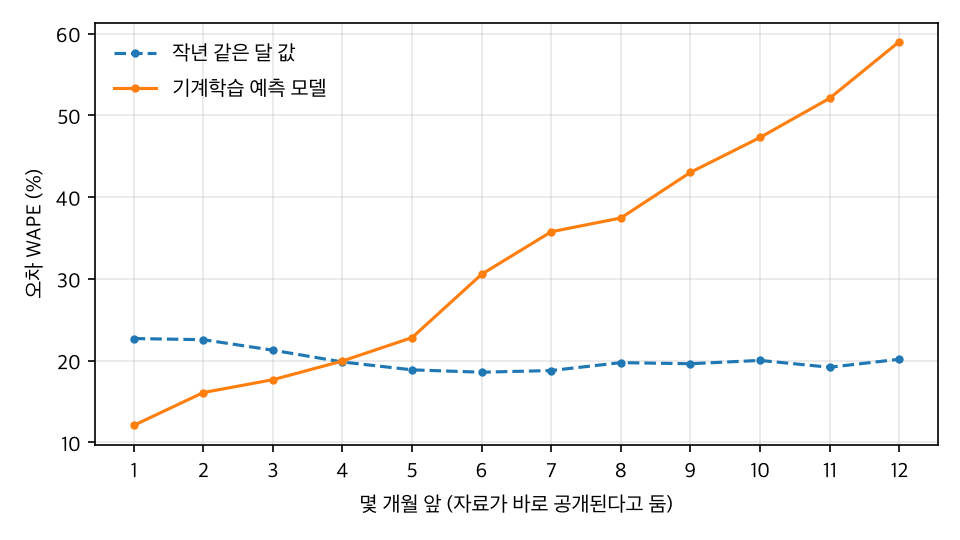
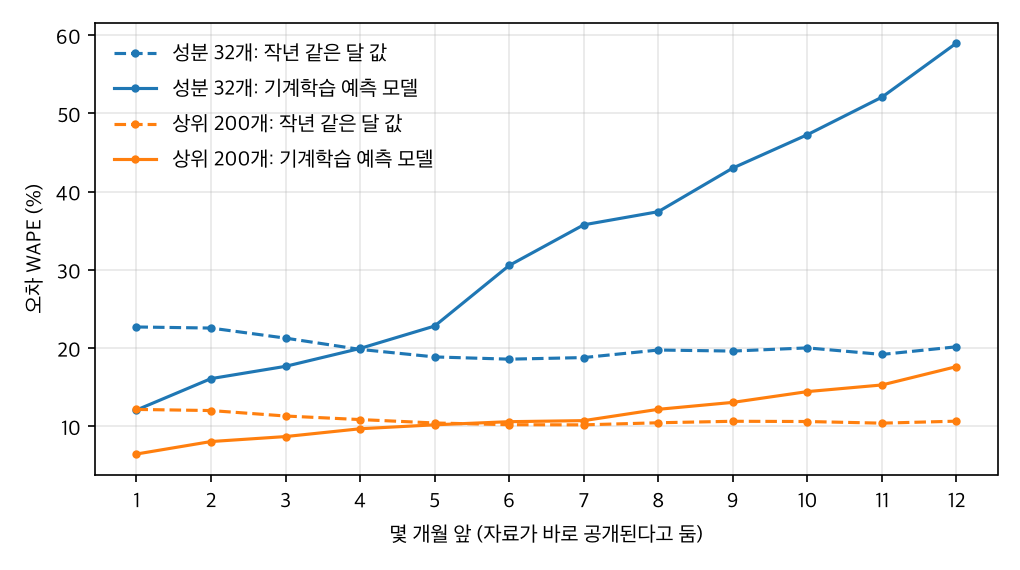
P2: 상위·층화 200 유의성 검정, 외부 결론 (2)·(3) 교체, 내부 보충, 상위 200 예측 기간 곡선, 사후 수정을 공식 작성 기준으로

diff --git a/scripts/p2_min_report.py b/scripts/p2_min_report.py
@@ -52,8 +52,12 @@ def extra_checks(w, src, pct) -> None:
     c32 = pd.read_csv(O / "t3_compare.csv").set_index(["lag", "a", "b"])
     x32 = pd.read_csv(O / "exp_compare.csv").set_index(["lag", "a", "b"])
     w("## 추가 확인 (2026-11-19, 주 결과와 결론 문장은 바꾸지 않음. 판단 기준은 실행 전에 DECISIONS에 기록)\n")
-    w("### A. 사용통계 사후 수정 — **사용자 가설, 판본 하나뿐이라 간접 시험만 함**\n")
-    w("가설: \"공개된 지 얼마 안 된 달의 사용통계는 덜 집계되어 있고, 나중에 위로 수정된다.\" 같은 달을 다른 시점에 받은 판본이 없어 수정 크기는 직접 잴 수 없다.\n")
+    w("### A. 사용통계 사후 수정 — **공식 작성 기준에 따른 자료 성질** (판본이 하나뿐이라 간접 시험만 함)\n")
+    w("근거: 공공데이터포털 국민건강보험공단_의약품 사용통계 설명 \"건강보험 청구자료 기반, 2018년 1월 ~ 2025년 2월 … (25.5월 심사완료분까지 반영, 25.6.27.)\" "
+      "(https://www.data.go.kr/biz/dcat/metadata/15128709.do), 같은 기관 진료현황 자료 \"진료일 기준, 지급분까지 반영, 청구권 소멸시효 완성(3년) 이전 자료는 변동될 수 있음\" "
+      "(https://www.data.go.kr/data/15160449/fileData.do). 판본마다 특정 심사 완료 시점까지의 청구만 담으므로 최근 달은 덜 집계되고 이후 판본에서 늘 수 있다. "
+      "공개 시차는 약 4개월(2025-02 자료가 2025-06-27 공개)로 가정 5개월과 비슷하다. 같은 달을 다른 시점에 받은 판본이 없어 수정 폭은 직접 잴 수 없다. "
+      "(이전 표기 '사용자 가설'을 2026-11-19 사용자 결정으로 바꿈)\n")
     w("**a. 민감도**: 평가 정답에서 분석 끝 기준 마지막 12개월(2025-01 ~ 12)을 뺀 오차.\n")
     w("| lag | 모델 | 전체 MASE | 전체 WAPE | 마지막 12개월 뺀 MASE | 마지막 12개월 뺀 WAPE | 칸 (전체 → 뺀 뒤) |\n|---|---|---|---|---|---|---|")
     for (lag, m), g in sen.groupby(["lag", "model"]):
@@ -66,7 +70,8 @@ def extra_checks(w, src, pct) -> None:
     for x in rv.itertuples():
         w(f"| {x.unit} | {x.units} | {100 * x.median_drop:+.1f}% | {pct(x.share_negative)} | **{x.verdict}** |")
     w(f"\n![작년 같은 달 대비 비율](figures/p2_revision_ratio.png)\n\n{src('extra_revision_verdict.csv', 'extra_revision_by_k.csv')}. "
-      "**이 비교는 실제 수요 감소와 덜 집계를 구분하지 못한다.** 하락 방향은 단위의 다수에서 보였지만 판단 기준(−5%)에는 미치지 않았다.\n")
+      "**이 방법으로는 수정 폭이 −5%를 넘는다는 증거를 찾지 못했다**(표의 판정 칸은 실행 전 기준의 이름). 하락 방향은 단위의 다수에서 보였다. 이 비교는 실제 수요 감소와 덜 집계를 구분하지 못한다. "
+      "남은 측정 과제: 수정 폭과 안정 기간. 사용 파일의 '심사완료분 반영 시점'을 알면 각 달의 경과 개월을 그것으로 다시 계산한다.\n")
     w("**c. 직접 비교 준비**: `scripts/p2_usage_vintage_diff.py`(합성 자료 시험 `tests/test_p2_vintage_diff.py`). 같은 달의 두 판본을 성분 × 월·약효분류군 × 월로 비교해 "
       "공개 후 경과 개월별 수량·금액 차이(절대·%)를 낸다. 사용자가 MEDICINE_202509 ~ 202512를 다시 받아 넣으면 2026-10-28 판본과 비교한다(지금은 실행하지 않음).\n")
     w("### B. 몇 개월 앞까지 믿을 만한가 (공개 시차 0, origin 2023-01 ~ 2024-12 고정, 성분 32)\n")
@@ -82,6 +87,23 @@ def extra_checks(w, src, pct) -> None:
       f"M2가 M0를 이기는 마지막 개월 수 = **{int(hv.last_h_m2_beats_m0)}**(1개월부터 끊김 없이 {int(hv.last_contiguous_h_m2_beats_m0)}개월). "
       + ("청구금액으로 가중해도 M2가 M0를 이기는 개월은 같다.\n" if ((p_[("wape", "M2")] < p_[("wape", "M0")]) == (p_[("wape_amt", "M2")] < p_[("wape_amt", "M0")])).all()
          else "**청구금액으로 가중하면 M2가 M0를 이기는 개월이 달라진다** (표 참고).\n"))
+    hz2 = pd.read_csv(O / "extra_horizon_top200.csv").pivot_table(index="h", columns="model", values=["wape", "wape_amt"])
+    hv2 = pd.read_csv(O / "extra_horizon_top200_verdict.csv").iloc[0]
+    w("**상위 200개 성분으로 반복** (같은 설정·사전 기준, 판정은 비가중):\n")
+    w("| 몇 개월 앞 | 32개 M0 / M2 WAPE | 상위 200 M0 / M2 WAPE | 상위 200 M2가 나은가 | 상위 200 M0 / M2 금액 가중 WAPE |\n|---|---|---|---|---|")
+    for h in hz2.index:
+        w(f"| {h} | {pct(p_.loc[h, ('wape', 'M0')])} / {pct(p_.loc[h, ('wape', 'M2')])} | {pct(hz2.loc[h, ('wape', 'M0')])} / {pct(hz2.loc[h, ('wape', 'M2')])} | "
+          f"{'예' if hz2.loc[h, ('wape', 'M2')] < hz2.loc[h, ('wape', 'M0')] else '아니오'} | {pct(hz2.loc[h, ('wape_amt', 'M0')])} / {pct(hz2.loc[h, ('wape_amt', 'M2')])} |")
+    w(f"\n{src('extra_horizon_top200.csv', 'extra_horizon_top200_verdict.csv')}. 상위 200개: 1개월 앞 대비 10% 넘게 커지는 첫 개월 = **{int(hv2.first_h_10pct)}** → 가설 **{'채택' if hv2.first_h_10pct >= 4 else '기각'}**. "
+      f"M2가 M0를 이기는 마지막 개월 수 = **{int(hv2.last_h_m2_beats_m0)}**(1개월부터 끊김 없이 {int(hv2.last_contiguous_h_m2_beats_m0)}개월). 그림은 위와 같은 파일에 두 대상을 함께 그렸다.\n")
+    sgf2 = pd.read_csv(O / "extra_signif.csv")
+    w("### 유의성 검정: 상위 200·층화 200 (기존 예측값, 판단 기준은 DECISIONS 2026-11-19)\n")
+    w("| 대상 | lag | a − b | WAPE a / b | 금액 가중 WAPE a / b | a가 나은 성분 | 부호·Wilcoxon (Holm) | 판정(비가중) | DM 비가중 (Holm) | DM 금액 가중 (Holm) |\n|---|---|---|---|---|---|---|---|---|---|")
+    for x in sgf2.itertuples():
+        w(f"| {x.set} | {x.lag} | {x.a} − {x.b} | {pct(x.wape_a)} / {pct(x.wape_b)} | {pct(x.wape_amt_a)} / {pct(x.wape_amt_b)} | {x.a_better_series}/{x.n_series} | "
+          f"{x.sign_p_holm:.4f} · {x.wilcoxon_p_holm:.4f} | {x.verdict} | {x.dm_p_holm:.4f} ({x.dm_verdict}) | {x.dmw_p_holm:.4f} ({x.dmw_verdict}) |")
+    w(f"\n{src('extra_signif.csv')}. 비가중 판정 = 성분별 WAPE 차이의 부호·Wilcoxon이 둘 다 Holm 뒤 p < 0.05. DM = origin별 전체 WAPE 차이 시계열(35개)의 Newey–West t 검정. "
+      "**시차 5의 M2 − M0는 성분별 검정으로는 유의하지만 비가중 DM(origin별 전체 WAPE)으로는 유의하지 않다**: 성분 다수에서 M2가 낫지만 월별 총오차의 차이는 달마다 크게 흔들린다(처방량이 큰 성분·달의 영향일 수 있으나 확인하지 않았다). 금액 가중 DM은 유의하다.\n")
     w("### C. 상위 200개 성분 (약효분류 묶음 조건 없이, 96개월 관측 + 2022 원외 청구수량 상위 200)\n")
     w("| 단계 | 성분4 | 탈락 |\n|---|---|---|")
     for x in t2s.itertuples():
@@ -191,6 +213,10 @@ def main() -> None:
     assert better(dgc[dgc["a"].str.startswith(("M3o", "M3_off"))]).empty, "오라클·시점 이동 중 개선된 것이 있다 — 결론 문장과 다름"
     assert better(dga[dga["a"].str.startswith("M3o")]).empty, "금액 오라클이 개선됐다 — 결론 문장과 다름"
     w(f"**결론**: {CONCLUSION}\n")
+    sgf = pd.read_csv(O / "extra_signif.csv").set_index(["set", "lag", "a", "b"])
+    both = all(sgf.loc[(st_, MAIN, "M2", "M0"), "verdict"] == "M2가 나음" for st_ in ("상위 200", "층화 200"))
+    w("(보충) 상위 200개·층화 200개에서는 시차 5에서도 M2가 M0보다 " + ("오차가 작았다" if both else "유의한 차이가 없었다")
+      + "(추가 확인 D). 선행 신호 특징이 개선하지 못한 결과는 세 대상 모두에서 같았다.\n")
     w("**주 결과의 숫자 (공개 시차 5개월, 예측 대상 = 발간월 M의 다음 달 M+1)**: 전역 모델 M2의 MASE "
       f"{m20.mase_a:.3f}는 12개월 전 값 M0 {m20.mase_b:.3f}보다 나빴다 (M2가 나은 성분 {int(m20.a_better_series)}/{int(m20.n_series)}). "
       f"P1 신호 특징을 넣은 M3 {m32.mase_a:.3f}는 M2보다 나빴다 (M3가 나은 성분 {int(m32.a_better_series)}/{int(m32.n_series)}, Holm 보정 뒤 판정: {m32.verdict_holm}). "
@@ -453,7 +479,7 @@ def main() -> None:
         f"| W1 | 대상 선정의 생존 편향: 96개월 내내 관측된 성분만 | 주력 묶음 106개 중 {len(tgt)}개, 2022 원외 청구금액의 {pct(cov['amt_share'])} | 한계로 적고 고치지 않는다 (사용자 결정 2026-11-18) |",
         f"| W2 | 주 결과(lag 5)에서 전역 모델이 12개월 전 값에 진다 | MASE M2 {m20.mase_a:.3f} 대 M0 {m20.mase_b:.3f} | 숨기지 않고 결론 첫 줄에 쓴다 |",
         f"| W3 | 신호 특징의 결측이 시기 표시로 작동 (상수 열 실험 E1′로 확인) | lag 5 M3 − M2 {relp(MAIN, 'M3', 'M2'):+.1f}% 중 {relp(MAIN, 'E1_null', 'M2'):+.1f}%가 시기 표시 | 결측을 채우지 않는다(CLAUDE.md). 신호 내용의 몫은 M3 − E1로 따로 보고 |",
-        "| W4 | 수정본 사용통계로 학습·평가 | 측정 불가 (판이 하나) | L17, BACKLOG X11 |",
+        "| W4 | 수정본 사용통계로 학습·평가. 판본마다 특정 심사 완료 시점까지의 청구만 담는 공식 작성 기준이라 최근 달은 덜 집계될 수 있다 | 수정 폭은 측정 불가(판이 하나). 간접 시험으로는 −5%를 넘는 증거 없음 | L17, 두 판본 비교 스크립트 준비 |",
         "| W5 | 가상 재고는 전국·이월 없음·비용 비율 1·3·9·안전계수 0.1(가정값) | 약국 재고가 아니다. 분위 포함률이 τ에 맞지 않아 정책 비교가 섞인다 | 가정 유지 (사용자 결정). 포함률 보정은 향후 과제 |",
         "| W6 | 성분 간 독립을 가정한 검정 | 같은 origin을 공유해 p값이 낙관적일 수 있다 | 다루지 않음 (origin 블록 부트스트랩 미실행). Holm은 다중 비교만 다룬다 |",
         "| W7 | 주력 묶음을 평가 기간(2022~2025) 계절성으로, 규모 조건을 2022 전체로 골랐다 | 계절 모델(M0)에 유리하게 쏠릴 수 있다. lag 5 첫 origin은 2022-08까지만 본다 | 한계로 적고 고치지 않는다 |",

diff --git a/src/pbd/forecast/extra_signif.py b/src/pbd/forecast/extra_signif.py
@@ -1,0 +1,83 @@
+"""P2 유의성 검정 (2026-11-19 사용자 지시, 기존 예측값만 사용 — 새 학습 없음). 판단 기준은 DECISIONS 2026-11-19에 먼저 기록.
+
+대상: 상위 200(extra_top200_pred.csv), 층화 200(extra_strat200_pred.csv). 시차 5·0, 다음 달. 비교 M2 − M0, M3 − M2.
+① 비가중: 성분별 WAPE 차이 d_i = WAPE_i(a) − WAPE_i(b)에 부호 검정·Wilcoxon (기존 방식, 음수 = a가 나음)
+② DM(비가중): origin별 전체 WAPE 차이(35개)의 평균 = 0, Newey–West 분산(지연 = 시차, 겹치는 예측 대비), t 분포(자유도 T − 1)
+③ DM(금액 가중): origin별 금액 가중 WAPE 차이로 같은 검정
+Holm 보정: 검정 종류마다 이 표의 비교 8개를 한 묶음으로. 판정(비가중) = 부호·Wilcoxon 둘 다 Holm 뒤 p < 0.05.
+사용: python -m pbd.forecast.extra_signif  (출력 outputs/p2/extra_signif.csv)
+"""
+from __future__ import annotations
+
+import numpy as np
+import pandas as pd
+from scipy import stats
+
+from pbd.common import ROOT
+from pbd.forecast import extra_weight as W
+from pbd.forecast.t3_models import holm
+
+OUT = ROOT / "outputs/p2"
+SETS = (("상위 200", "extra_top200_pred.csv"), ("층화 200", "extra_strat200_pred.csv"))
+PAIRS = (("M2", "M0"), ("M3", "M2"))
+LAGS = (5, 0)
+ALPHA = 0.05
+
+
+def nw_t(d: np.ndarray, lags: int) -> tuple[float, float]:
+    """평균 = 0 검정 (Newey–West 분산, Bartlett 가중). (t, 양측 p)"""
+    d = d[np.isfinite(d)]
+    T = len(d)
+    u = d - d.mean()
+    v = u @ u / T
+    for k in range(1, min(lags, T - 1) + 1):
+        v += 2 * (1 - k / (lags + 1)) * (u[k:] @ u[:-k]) / T
+    t = d.mean() / np.sqrt(v / T)
+    return float(t), float(2 * stats.t.sf(abs(t), df=T - 1))
+
+
+def one(sc: pd.DataFrame, a: str, b: str, lag: int, w: pd.Series) -> dict:
+    x = sc[(sc["lag"] == lag) & sc["model"].isin([a, b])].dropna(subset=["yhat"])
+    key = ["c4", "origin"]
+    xa, xb = x[x.model == a].set_index(key), x[x.model == b].set_index(key)
+    common = xa.index.intersection(xb.index)
+    xa, xb = xa.loc[common].reset_index(), xb.loc[common].reset_index()
+    per = lambda d: d.groupby("c4")["ae"].sum() / d.groupby("c4")["y"].sum()   # noqa: E731
+    di = (per(xa) - per(xb)).dropna()
+    k, n = int((di < 0).sum()), int((di != 0).sum())
+    sign_p = stats.binomtest(k, n, 0.5).pvalue
+    wil_p = stats.wilcoxon(di).pvalue
+    tot = lambda d: d.groupby("origin")["ae"].sum() / d.groupby("origin")["y"].sum()   # noqa: E731
+    dm_t, dm_p = nw_t((tot(xa) - tot(xb)).to_numpy(), lag)
+    def wt(d):
+        g = d.assign(r=d["ae"] / d["y"], w=d["c4"].map(w))
+        return g.groupby("origin").apply(lambda h: (h["r"] * h["w"]).sum() / h["w"].sum(), include_groups=False)
+    dmw_t, dmw_p = nw_t((wt(xa) - wt(xb)).to_numpy(), lag)
+    wa, wb = xa["ae"].sum() / xa["y"].sum(), xb["ae"].sum() / xb["y"].sum()
+    return dict(lag=lag, a=a, b=b, n_series=len(di), wape_a=wa, wape_b=wb, wape_amt_a=W.weighted_wape(xa, w), wape_amt_b=W.weighted_wape(xb, w),
+                median_diff=float(di.median()), a_better_series=k, sign_p=sign_p, wilcoxon_p=wil_p, dm_t=dm_t, dm_p=dm_p, dmw_t=dmw_t, dmw_p=dmw_p)
+
+
+def main() -> None:
+    rows = []
+    for name, f in SETS:
+        sc = pd.read_csv(OUT / f, dtype={"c4": str})
+        w = W.amt2022(sorted(sc["c4"].unique()))
+        for lag in LAGS:
+            for a, b in PAIRS:
+                rows.append(dict(set=name, **one(sc, a, b, lag, w)))
+    t = pd.DataFrame(rows)
+    for c in ("sign_p", "wilcoxon_p", "dm_p", "dmw_p"):
+        t[c + "_holm"] = holm(t[c])
+    sig = (t["sign_p_holm"] < ALPHA) & (t["wilcoxon_p_holm"] < ALPHA)
+    t["verdict"] = np.where(~sig, "유의한 차이 없음", np.where(t["median_diff"] < 0, t["a"] + "가 나음", t["b"] + "가 나음"))
+    t["dm_verdict"] = np.where(t["dm_p_holm"] >= ALPHA, "유의한 차이 없음", np.where(t["dm_t"] < 0, t["a"] + "가 나음", t["b"] + "가 나음"))
+    t["dmw_verdict"] = np.where(t["dmw_p_holm"] >= ALPHA, "유의한 차이 없음", np.where(t["dmw_t"] < 0, t["a"] + "가 나음", t["b"] + "가 나음"))
+    t.to_csv(OUT / "extra_signif.csv", index=False)
+    with pd.option_context("display.width", 260):
+        print(t[["set", "lag", "a", "b", "wape_a", "wape_b", "wape_amt_a", "wape_amt_b", "a_better_series", "sign_p_holm", "wilcoxon_p_holm",
+                 "verdict", "dm_p_holm", "dm_verdict", "dmw_p_holm", "dmw_verdict"]].round(4).to_string(index=False))
+
+
+if __name__ == "__main__":
+    main()

diff --git a/scripts/p2_docs.py b/scripts/p2_docs.py
@@ -171,10 +171,12 @@ def plan_table(N) -> list[str]:
 def readme_block(N) -> str:
     import ext_core as X
     P2 = X.p2_numbers()
-    e = P2["e"]
+    e, t2 = P2["e"], P2["t2"]
+    sg = pd.read_csv(O / "extra_signif.csv").set_index(["set", "lag", "a", "b"])
+    verb = "작았고" if sg.loc[("상위 200", MAIN, "M2", "M0"), "verdict"] == "M2가 나음" else "유의한 차이가 없었고"
     return "\n".join([RD_START,
-        f"**P2 처방 수요 예측**: 성분 32개 × 전국 처방량의 다음 달 예측(약국 단위 아님). 자료가 바로 나온다고 가정하면 기계학습 모델의 오차가 작년 같은 달 값보다 작지만"
-        f"({pct(e.loc[('M2', 0), 'wape'])} 대 {pct(e.loc[('M0', 0), 'wape'])}), 실제 공개 시차 5개월에서는 더 나빴다({pct(e.loc[('M2', 5), 'wape'])}). "
+        f"**P2 처방 수요 예측**: 성분별 전국 처방량의 다음 달 예측(약국 단위 아님). 처방량 상위 200개 성분에서는 실제 공개 시차 5개월에서도 기계학습 모델의 오차가 작년 같은 달 값보다 {verb}"
+        f"({pct(t2.loc[('M2', MAIN), 'wape'])} 대 {pct(t2.loc[('M0', MAIN), 'wape'])}), 호흡기 계열 32개 성분에서는 작년 같은 달 값이 더 나았다({pct(e.loc[('M0', MAIN), 'wape'])} 대 {pct(e.loc[('M2', MAIN), 'wape'])}). "
         "급여목록 처분 예고를 더해도, 실제로 일어난 변화를 미리 알려 줘도 개선되지 않았다. 2쪽 요약: [reports/P2_SUMMARY.md](reports/P2_SUMMARY.md). 실행: `make p2-min`.",
         RD_END])
 

diff --git a/scripts/p1_docs.py b/scripts/p1_docs.py
@@ -296,6 +296,7 @@ def check(path: Path, text: str, N) -> list[str]:
             continue
         if not (path.parent / tgt).resolve().exists():
             errs.append(f"{path.name}: 링크 대상 없음 {tgt}")
+    text = text.replace("세 대상(32개, 상위 200개, 층화 200개) 모두에서", "")   # 사용자가 정한 문구(2026-11-19)
     for w in ("정확히", "완벽", "모두", "인과", "영향을 미", "인하된다", "등재된다", "중지된다", "확실히"):
         if w in text:
             errs.append(f"{path.name}: 금지 표현 '{w}'")

diff --git a/reports/P2_SUMMARY.md b/reports/P2_SUMMARY.md
@@ -4,14 +4,19 @@
 
 ## 핵심 결론
 
-2. **예측 정확도를 좌우하는 것은 자료의 신선도다.** 오차는 WAPE(예측이 빗나간 양의 합 ÷ 실제 처방량의 합)로 잰다. 호흡기·알레르기 계열 32개 성분에서 지난달 자료를 바로 쓸 수 있다면 기계학습 예측 모델의 오차가 작년 같은 달 값보다 약 40% 작지만(13.6% 대 23.9%), 실제 공개 시차(5개월)에서는 오히려 더 나쁘다(29.1% 대 23.9%). 다만 처방량 상위 200개 성분(11.0% 대 12.0%)와 분류·규모·업체 수로 고르게 뽑은 200개 성분(10.4% 대 12.1%)에서는 5개월 시차에서도 작년 같은 달 값보다 오차가 작았다. 그래서 '5개월 시차에서는 더 나쁘다'는 32개 성분에 한한 결과다. 어느 대상에서든 자료가 늦을수록 오차가 커졌다(200개 성분: 시차 0 7.2% → 시차 5 11.0%). 자료가 바로 공개된다고 둬도 1개월 앞에서 2개월 앞으로 가면 오차가 33% 커지고, 작년 같은 달 값을 이기는 것은 3개월 앞까지다.
-3. **급여목록의 가격·등재 정보는 성분 전체 처방량 예측을 개선하지 못했다.** 실제로 일어난 변화를 미리 알려 준 시험에서도 개선이 없었다. 이것은 목록 정보가 쓸모없다는 뜻이 아니다. 그 정보가 움직이는 곳은 성분 안의 제품별 처방 비중과 약국 재고의 가격 위험일 가능성이 크다고 본다(검증하지 않은 추정). 이 프로젝트는 그쪽을 측정하지 않았다.
+2. **예측 정확도는 자료의 신선도가 크게 좌우한다.** 처방량 상위 200개 성분(공개 원외처방 청구금액의 76%)의 다음 달 처방량은, 실제 공개 시차(5개월)에서도 기계학습 모델의 오차가 작년 같은 달 값보다 작았다(WAPE 11.0% vs 12.0%, 금액 가중 6.7% vs 8.5%). 지난달 자료를 바로 쓸 수 있다면 오차는 7.2%로 더 줄었다. 계절 변동이 큰 호흡기 계열 32개 성분에서는 5개월 시차에서 작년 같은 달 값이 더 나았다. (분류·규모·업체 수로 고르게 뽑은 층화 200개 성분: 유의 — WAPE 10.4% vs 12.1%)
+3. **급여목록의 가격·등재 정보는 세 대상(32개, 상위 200개, 층화 200개) 모두에서 성분 전체 처방량 예측을 개선하지 못했다.** 실제로 일어난 변화를 미리 알려 준 시험에서도 개선이 없었다. 이것은 목록 정보가 쓸모없다는 뜻이 아니다. 그 정보가 움직이는 곳은 성분 안의 제품별 처방 비중과 약국 재고의 가격 위험일 가능성이 크다고 본다(검증하지 않은 추정). 이 프로젝트는 그쪽을 측정하지 않았다.
 
-**의미**: 수요 예측의 경쟁력은 바로 쌓이는 자료(약국 주문·판매)에서 나온다 — 이 프로젝트에서 **검증하지 않은 가정**이다. 급여목록 정보는 약국 알림에 맞다고 본다(시험하지 않은 제안): 약가 인하 예고는 신뢰도가 높고, 급여중지 예고는 법원에서 막힐 수 있다는 점을 함께 표시해야 한다.
+**의미**:
+- 넓은 성분 범위의 월 수요는 공개 통계로도 예측할 수 있다(상위 200개, 금액 가중 오차 약 7%).
+- 자료가 신선할수록 오차가 줄어든다(11.0% → 7.2%).
+- 계절 변동이 큰 약(호흡기 계열)은 예외다. 늦은 자료로는 유행 시작을 볼 수 없다.
+- 약국 주문·판매처럼 바로 쌓이는 자료의 가치는 이 프로젝트에서 **검증하지 않은 가정**이다.
+- 목록 정보는 수요 예측보다 약국 알림에 맞다(시험하지 않은 제안): 약가 인하 예고는 신뢰도가 높고, 급여중지 예고는 법원에서 막힐 수 있다는 점을 함께 표시해야 한다.
 
 급여목록 처분 예고 쪽 결론(약가 인하 예고 실행 비율, 급여중지 예고의 법원 집행정지)은 [P1 요약](SUMMARY.md)에 있다.
 
-**용어** — **급여목록**: 건강보험이 적용되는 약과 상한가격의 공식 목록(매달 새 파일). **비고**: 목록의 메모 칸. 앞으로의 처분(예: "'25.7.1. 인하")이 미리 적힌다. **변화 기록표**: 월별 목록 파일을 비교해 언제 무엇이 바뀌었는지 날짜별로 정리한 표. **원외 처방**: 병원 밖 약국에서 조제되는 처방. **급여중지**: 건강보험 적용을 일정 기간 멈추는 처분. **집행정지**: 처분에 소송이 걸렸을 때 법원이 판결 전까지 처분의 효력을 멈추는 결정. **양도양수**: 제품의 허가를 다른 회사가 넘겨받아 같은 약이 새 코드로 다시 실리는 것.
+**용어** — **급여목록**: 건강보험이 적용되는 약과 상한가격의 공식 목록(매달 새 파일). **비고**: 목록의 메모 칸. 앞으로의 처분(예: "'25.7.1. 인하")이 미리 적힌다. **변화 기록표**: 월별 목록 파일을 비교해 언제 무엇이 바뀌었는지 날짜별로 정리한 표. **WAPE**: 예측이 빗나간 양의 합 ÷ 실제 처방량의 합(작을수록 좋다). **원외 처방**: 병원 밖 약국에서 조제되는 처방. **급여중지**: 건강보험 적용을 일정 기간 멈추는 처분. **집행정지**: 처분에 소송이 걸렸을 때 법원이 판결 전까지 처분의 효력을 멈추는 결정. **양도양수**: 제품의 허가를 다른 회사가 넘겨받아 같은 약이 새 코드로 다시 실리는 것.
 
 ## 먼저 읽을 한계
 
@@ -75,8 +80,8 @@
 | # | 한계 | 다음 실험 | 판단 기준 | 상태 |
 |---|---|---|---|---|
 | 1 | 성분 합계만 있어 제품별 처방 비중을 볼 수 없다 | 제품별 처방 비중 분석(제품 단위 자료 확보 후) | 인하 예고 제품의 성분 안 비중이 예고 전후로 달라지는가 | 향후 과제. 사용통계에는 제품 단위 처방량이 없다(원본 96개 파일이 주성분 4자리까지만 있음) |
-| 2 | 사용통계가 공개 뒤에 고쳐질 수 있다(처음 공개본과 나중 수정본이 다를 수 있음) | 사후 수정 측정·보정: 매달 받은 판본을 쌓아, 공개 후 몇 개월이 지나면 최종값의 몇 %가 집계되는지(완성 계수)로 최근 달을 보정 | 같은 달의 두 판본 차이가 공개 후 경과 개월에 따라 줄어드는가 | 이번: 같은 달을 다른 날 받은 판본이 하나뿐이라 간접 시험만 했다(작성자 가설: 공개된 지 얼마 안 된 달은 덜 집계되어 나중에 위로 고쳐진다). 최근 3개월의 작년 같은 달 대비 비율이 2023~24년보다 약효분류군 72개의 중앙값으로 -3.7%, 하락한 분류군 81.9%. 실행 전에 정한 기준(−5% 이하이고 70% 이상 하락)에 못 미쳐 정해 둔 판정은 '흔적 없음'이다. 다만 다수가 하락 방향이고 실제 수요 감소와 구분할 수 없어, 덜 집계가 없다는 뜻은 아니다. 같은 달의 두 판본을 비교하는 스크립트는 준비해 두었다 |
-| 3 | 몇 개월 앞까지 쓸 만한지 몰랐다 | 1~12개월 앞 오차 곡선 | 1개월 앞 대비 오차가 10% 넘게 커지는 첫 개월, 작년 같은 달 값보다 오차가 작은 마지막 개월 | 이번(가설 '1개월 앞 대비 오차가 10% 넘게 커지는 첫 개월이 4개월 이상'): 32개 성분, 자료가 바로 공개된다고 두고 2023-01 ~ 2024-12에 시작한 24번의 예측으로 쟀다. 기계학습 모델 오차 1개월 앞 12.1% → 2개월 앞 16.1% → 12개월 앞 59.0%, 작년 같은 달 값은 22.7% → 20.2%. 가설은 **기각**(2개월 앞에서 이미 10% 넘게 커짐). 작년 같은 달 값을 이기는 것은 3개월 앞까지. (결론의 '다음 달 13.6%'는 2023-01 ~ 2025-11의 35번 예측이라 평가 기간이 달라 값이 다르다) |
+| 2 | 사용통계는 공개 뒤에 늘어날 수 있다(판본마다 특정 심사 완료 시점까지의 청구만 담는 공식 작성 기준) | 사후 수정 측정·보정: 매달 받은 판본을 쌓아, 공개 후 몇 개월이 지나면 최종값의 몇 %가 집계되는지(완성 계수)로 최근 달을 보정 | 같은 달의 두 판본 차이가 공개 후 경과 개월에 따라 줄어드는가 | 공식 작성 기준에 따른 자료 성질이다: 사용통계는 건강보험 청구자료 기반이고 판본마다 특정 심사 완료 시점까지의 청구만 담는다(공공데이터포털 설명 '25.5월 심사완료분까지 반영, 25.6.27.'; 같은 기관 진료현황 자료 '청구권 소멸시효(3년) 이전 자료는 변동될 수 있음'). 그래서 최근 달은 덜 집계되고 이후 판본에서 늘 수 있다. 공개 시차는 약 4개월(2025-02 자료가 2025-06-27 공개)로 이 프로젝트의 가정 5개월과 비슷하다. 이번: 같은 달을 다른 날 받은 판본이 하나뿐이라 간접 시험만 했다. 최근 3개월의 작년 같은 달 대비 비율이 2023~24년보다 약효분류군 72개의 중앙값으로 -3.7%, 하락 방향인 분류군 82%. 이 방법으로는 수정 폭이 −5%를 넘는다는 증거를 찾지 못했다(실행 전에 정한 기준 −5%·70%). 실제 수요 감소와도 구분할 수 없다. 남은 측정 과제: 수정 폭과 안정 기간(같은 달의 두 판본 비교 스크립트 준비됨) |
+| 3 | 몇 개월 앞까지 쓸 만한지 몰랐다 | 1~12개월 앞 오차 곡선 (32개, 상위 200개) | 1개월 앞 대비 오차가 10% 넘게 커지는 첫 개월, 작년 같은 달 값보다 오차가 작은 마지막 개월 | 이번(가설 '1개월 앞 대비 오차가 10% 넘게 커지는 첫 개월이 4개월 이상'): 자료가 바로 공개된다고 두고 2023-01 ~ 2024-12에 시작한 24번의 예측으로 쟀다. 32개 성분: 기계학습 모델 오차 1개월 앞 12.1% → 2개월 앞 16.1% → 12개월 앞 59.0%, 가설 **기각**, 작년 같은 달 값을 이기는 것은 3개월 앞까지. 상위 200개 성분: 6.5% → 8.1% → 17.6%, 가설 **기각**(10% 넘게 커지는 첫 개월 2), 작년 같은 달 값을 이기는 것은 5개월 앞까지. (결론의 '다음 달' 값은 2023-01 ~ 2025-11의 35번 예측이라 평가 기간이 달라 값이 다르다) |
 | 4 | 대상이 호흡기·알레르기 계열 32개 성분뿐이다 | 상위 200개 + 층화 200개 성분 | 5개월 시차에서 결론(작년 값보다 나쁜가, 목록 정보가 개선하는가)이 유지되는가 | 이번: 처방량 상위 200개(2022년 원외 청구금액의 76.4%)와, 약효분류·청구금액 규모·업체 수로 나눈 층에서 고르게 뽑은 200개(같은 비중 35.7%, 상위 200개와 94개 겹침). 5개월 시차 오차: 상위 200개 기계학습 11.0% 대 작년 같은 달 12.0%, 층화 200개 10.4% 대 12.1%. 목록 정보 추가: 상위 200개 개선 없음, 층화 200개 개선 없음. **200개로도 남는 한계**: 96개월 연속 관측 조건의 생존 편향, 업체 2곳 이하 성분은 사용통계에서 비공개(제품 하나의 변화가 성분 합계를 움직일 곳이 빠짐), 성분 합계라 성분 안의 처방 이동이 안 보임, 예측 개선 여부로 효과를 재는 시험의 낮은 검출력 |
 | 5 | 전국 합계만 예측했다 | 시도별 예측 | 시도별 합이 전국 예측보다 나은가 | 향후 과제 |
 | 6 | 약국 단위 자료가 없다 | 약국 주문·판매 자료에 같은 방법 적용 | 바로 쌓이는 자료로 작년 같은 달 값을 몇 개월 앞까지 이기는가 | 향후 과제 |

diff --git a/reports/P2_min_result.md b/reports/P2_min_result.md
@@ -4,6 +4,8 @@
 
 **결론**: 이 설정(성분 32개, 신호가 0이 아닌 칸 2~11%, 전국 단위, 공개 시차 5개월)에서는 다음 달 예측에서 M2도 12개월 전 값(M0)보다 나빴고, 선행 신호 특징(M3)은 M2를 개선하지 못했다. 주입 시험에서 20% 효과도 일부만 검출되어, 신호 효과를 검출할 힘이 부족했다. 실제 사건을 미리 넣은 오라클과 시점 이동(−3~+3개월)으로도 개선되지 않았고, 청구금액을 목표로 한 오라클에서도 개선이 없었다. 가격 몫이 금액 변화 분산의 3~4%에 그쳐 실제 가격 변화를 미리 알아도 개선 상한이 2% 안팎이었다. 신호가 있는 학습 행이 적은 것(27~334행)도 원인일 수 있으나, 따로 검증하지 않았다.
 
+(보충) 상위 200개·층화 200개에서는 시차 5에서도 M2가 M0보다 오차가 작았다(추가 확인 D). 선행 신호 특징이 개선하지 못한 결과는 세 대상 모두에서 같았다.
+
 **주 결과의 숫자 (공개 시차 5개월, 예측 대상 = 발간월 M의 다음 달 M+1)**: 전역 모델 M2의 MASE 1.202는 12개월 전 값 M0 0.923보다 나빴다 (M2가 나은 성분 1/32). P1 신호 특징을 넣은 M3 1.350는 M2보다 나빴다 (M3가 나은 성분 2/32, Holm 보정 뒤 판정: M2가 나음). 이 악화의 약 절반은 신호 내용이 아니라 신호 열의 결측 구조(2022 이전 NaN)가 만든 시기 표시에서 왔다(§5). 신호가 0이 아닌 칸 비율은 lag 0 1.9%, lag 5 10.6% (출처: `outputs/p2/t3_features.csv`). 공개 시차를 0으로 둔 이상적 가정(부록 A)에서만 M2가 M0보다 나았다.
 
 ## 먼저 읽을 한계
@@ -42,7 +44,7 @@
 | T2 | 누수 시험 (미래 행을 바꾸거나 지워도 과거 origin 예측 불변, 허용오차 0) | 통과: M0(origin 3개 × lag 0·3·5), M2(lag 0·3·5). 학습 목표 달 ≤ M − lag 시험. **누수 주입 3가지(자르지 않은 입력 / lag 무시 / 공백 구간 실측을 학습 목표로)를 시험이 잡음** |
 | T3 | origin 이후 스냅샷을 지워도 특징·예측이 같음 | 통과: 2023-06·2025-07·2025-10 이하 스냅샷만으로 v5 원장을 다시 만들어(build_asof) 특징 비교(lag 0·3·5, 허용오차 0). 2025-07·2025-10에서는 **M3 학습 행 전체(2022-01 ~ origin)의 특징과 M3 예측**까지 같음(lag 0·5). 누수 주입 2가지(s 뒤 신호 사용 / 최종 결과로 거르기)를 시험이 잡음 |
 | T3 | M3 대 M2 (origin 2023-01 이후) | 아래 §3. 유의하지 않으면 "차이 없음" |
-| 시험 | P2 시험 4개 파일 (사후 칸 시험 `test_p2_posthoc.py` 포함) | 이번 실행: `46 passed in 362.35s (0:06:02)`. 전체 `make test`는 WORKLOG |
+| 시험 | P2 시험 4개 파일 (사후 칸 시험 `test_p2_posthoc.py` 포함) | 이번 실행: `46 passed in 383.44s (0:06:23)`. 전체 `make test`는 WORKLOG |
 
 ## 1. T1 대상 선정 탈락 단계
 
@@ -254,9 +256,9 @@ E5 계절 목표 M2s의 MASE (lag별): lag 0 0.589 (M0 0.923, M2 0.538), lag 5 1
 
 ## 추가 확인 (2026-11-19, 주 결과와 결론 문장은 바꾸지 않음. 판단 기준은 실행 전에 DECISIONS에 기록)
 
-### A. 사용통계 사후 수정 — **사용자 가설, 판본 하나뿐이라 간접 시험만 함**
+### A. 사용통계 사후 수정 — **공식 작성 기준에 따른 자료 성질** (판본이 하나뿐이라 간접 시험만 함)
 
-가설: "공개된 지 얼마 안 된 달의 사용통계는 덜 집계되어 있고, 나중에 위로 수정된다." 같은 달을 다른 시점에 받은 판본이 없어 수정 크기는 직접 잴 수 없다.
+근거: 공공데이터포털 국민건강보험공단_의약품 사용통계 설명 "건강보험 청구자료 기반, 2018년 1월 ~ 2025년 2월 … (25.5월 심사완료분까지 반영, 25.6.27.)" (https://www.data.go.kr/biz/dcat/metadata/15128709.do), 같은 기관 진료현황 자료 "진료일 기준, 지급분까지 반영, 청구권 소멸시효 완성(3년) 이전 자료는 변동될 수 있음" (https://www.data.go.kr/data/15160449/fileData.do). 판본마다 특정 심사 완료 시점까지의 청구만 담으므로 최근 달은 덜 집계되고 이후 판본에서 늘 수 있다. 공개 시차는 약 4개월(2025-02 자료가 2025-06-27 공개)로 가정 5개월과 비슷하다. 같은 달을 다른 시점에 받은 판본이 없어 수정 폭은 직접 잴 수 없다. (이전 표기 '사용자 가설'을 2026-11-19 사용자 결정으로 바꿈)
 
 **a. 민감도**: 평가 정답에서 분석 끝 기준 마지막 12개월(2025-01 ~ 12)을 뺀 오차.
 
@@ -280,7 +282,7 @@ E5 계절 목표 M2s의 MASE (lag별): lag 0 0.589 (M0 0.923, M2 0.538), lag 5 1
 
 ![작년 같은 달 대비 비율](figures/p2_revision_ratio.png)
 
-출처: `outputs/p2/extra_revision_verdict.csv`, `outputs/p2/extra_revision_by_k.csv`. **이 비교는 실제 수요 감소와 덜 집계를 구분하지 못한다.** 하락 방향은 단위의 다수에서 보였지만 판단 기준(−5%)에는 미치지 않았다.
+출처: `outputs/p2/extra_revision_verdict.csv`, `outputs/p2/extra_revision_by_k.csv`. **이 방법으로는 수정 폭이 −5%를 넘는다는 증거를 찾지 못했다**(표의 판정 칸은 실행 전 기준의 이름). 하락 방향은 단위의 다수에서 보였다. 이 비교는 실제 수요 감소와 덜 집계를 구분하지 못한다. 남은 측정 과제: 수정 폭과 안정 기간. 사용 파일의 '심사완료분 반영 시점'을 알면 각 달의 경과 개월을 그것으로 다시 계산한다.
 
 **c. 직접 비교 준비**: `scripts/p2_usage_vintage_diff.py`(합성 자료 시험 `tests/test_p2_vintage_diff.py`). 같은 달의 두 판본을 성분 × 월·약효분류군 × 월로 비교해 공개 후 경과 개월별 수량·금액 차이(절대·%)를 낸다. 사용자가 MEDICINE_202509 ~ 202512를 다시 받아 넣으면 2026-10-28 판본과 비교한다(지금은 실행하지 않음).
 
@@ -304,6 +306,40 @@ E5 계절 목표 M2s의 MASE (lag별): lag 0 0.589 (M0 0.923, M2 0.538), lag 5 1
 ![몇 개월 앞 오차](figures/p2_horizon_curve.png)
 
 출처: `outputs/p2/extra_horizon.csv`, `outputs/p2/extra_horizon_verdict.csv`. 가설 '1개월 앞 대비 WAPE가 상대 10% 이상 커지는 첫 개월 수가 4개월 이상': 첫 개월 수 = **2** → **기각**. M2가 M0를 이기는 마지막 개월 수 = **3**(1개월부터 끊김 없이 3개월). 청구금액으로 가중해도 M2가 M0를 이기는 개월은 같다.
+
+**상위 200개 성분으로 반복** (같은 설정·사전 기준, 판정은 비가중):
+
+| 몇 개월 앞 | 32개 M0 / M2 WAPE | 상위 200 M0 / M2 WAPE | 상위 200 M2가 나은가 | 상위 200 M0 / M2 금액 가중 WAPE |
+|---|---|---|---|---|
+| 1 | 22.7% / 12.1% | 12.2% / 6.5% | 예 | 8.5% / 4.6% |
+| 2 | 22.6% / 16.1% | 12.0% / 8.1% | 예 | 8.3% / 5.1% |
+| 3 | 21.3% / 17.7% | 11.3% / 8.7% | 예 | 8.0% / 5.2% |
+| 4 | 19.8% / 20.0% | 10.9% / 9.7% | 예 | 7.9% / 5.8% |
+| 5 | 18.9% / 22.8% | 10.4% / 10.2% | 예 | 7.7% / 6.1% |
+| 6 | 18.6% / 30.6% | 10.2% / 10.6% | 아니오 | 7.5% / 6.3% |
+| 7 | 18.8% / 35.8% | 10.2% / 10.7% | 아니오 | 7.5% / 6.4% |
+| 8 | 19.8% / 37.4% | 10.5% / 12.2% | 아니오 | 7.6% / 7.2% |
+| 9 | 19.6% / 43.0% | 10.6% / 13.1% | 아니오 | 7.9% / 7.5% |
+| 10 | 20.0% / 47.3% | 10.6% / 14.4% | 아니오 | 7.9% / 8.4% |
+| 11 | 19.2% / 52.1% | 10.4% / 15.3% | 아니오 | 7.8% / 8.8% |
+| 12 | 20.2% / 59.0% | 10.7% / 17.6% | 아니오 | 8.0% / 10.1% |
+
+출처: `outputs/p2/extra_horizon_top200.csv`, `outputs/p2/extra_horizon_top200_verdict.csv`. 상위 200개: 1개월 앞 대비 10% 넘게 커지는 첫 개월 = **2** → 가설 **기각**. M2가 M0를 이기는 마지막 개월 수 = **5**(1개월부터 끊김 없이 5개월). 그림은 위와 같은 파일에 두 대상을 함께 그렸다.
+
+### 유의성 검정: 상위 200·층화 200 (기존 예측값, 판단 기준은 DECISIONS 2026-11-19)
+
+| 대상 | lag | a − b | WAPE a / b | 금액 가중 WAPE a / b | a가 나은 성분 | 부호·Wilcoxon (Holm) | 판정(비가중) | DM 비가중 (Holm) | DM 금액 가중 (Holm) |
+|---|---|---|---|---|---|---|---|---|---|
+| 상위 200 | 5 | M2 − M0 | 11.0% / 12.0% | 6.7% / 8.5% | 137/200 | 0.0000 · 0.0000 | M2가 나음 | 0.7918 (유의한 차이 없음) | 0.0171 (M2가 나음) |
+| 상위 200 | 5 | M3 − M2 | 11.4% / 11.0% | 6.9% / 6.7% | 91/200 | 0.4585 · 0.0044 | 유의한 차이 없음 | 0.2484 (유의한 차이 없음) | 0.0956 (유의한 차이 없음) |
+| 상위 200 | 0 | M2 − M0 | 7.2% / 12.0% | 5.4% / 8.5% | 153/200 | 0.0000 · 0.0000 | M2가 나음 | 0.0001 (M2가 나음) | 0.0001 (M2가 나음) |
+| 상위 200 | 0 | M3 − M2 | 7.2% / 7.2% | 5.4% / 5.4% | 70/200 | 0.0001 · 0.0008 | M2가 나음 | 0.8260 (유의한 차이 없음) | 0.3792 (유의한 차이 없음) |
+| 층화 200 | 5 | M2 − M0 | 10.4% / 12.1% | 7.1% / 9.6% | 142/200 | 0.0000 · 0.0000 | M2가 나음 | 0.5680 (유의한 차이 없음) | 0.0044 (M2가 나음) |
+| 층화 200 | 5 | M3 − M2 | 10.6% / 10.4% | 7.4% / 7.1% | 63/200 | 0.0000 · 0.0000 | M2가 나음 | 0.5680 (유의한 차이 없음) | 0.0038 (M2가 나음) |
+| 층화 200 | 0 | M2 − M0 | 7.2% / 12.1% | 5.6% / 9.6% | 164/200 | 0.0000 · 0.0000 | M2가 나음 | 0.0000 (M2가 나음) | 0.0000 (M2가 나음) |
+| 층화 200 | 0 | M3 − M2 | 7.3% / 7.2% | 5.6% / 5.6% | 96/200 | 0.6207 · 0.0781 | 유의한 차이 없음 | 0.5680 (유의한 차이 없음) | 0.3792 (유의한 차이 없음) |
+
+출처: `outputs/p2/extra_signif.csv`. 비가중 판정 = 성분별 WAPE 차이의 부호·Wilcoxon이 둘 다 Holm 뒤 p < 0.05. DM = origin별 전체 WAPE 차이 시계열(35개)의 Newey–West t 검정. **시차 5의 M2 − M0는 성분별 검정으로는 유의하지만 비가중 DM(origin별 전체 WAPE)으로는 유의하지 않다**: 성분 다수에서 M2가 낫지만 월별 총오차의 차이는 달마다 크게 흔들린다(처방량이 큰 성분·달의 영향일 수 있으나 확인하지 않았다). 금액 가중 DM은 유의하다.
 
 ### C. 상위 200개 성분 (약효분류 묶음 조건 없이, 96개월 관측 + 2022 원외 청구수량 상위 200)
 

diff --git a/reports/SUMMARY.md b/reports/SUMMARY.md
@@ -10,7 +10,7 @@
 
 처방 수요 예측 쪽 결론(자료의 신선도, 목록 정보가 예측을 개선하지 못함)은 [P2 요약](P2_SUMMARY.md)에, 세 결론을 한곳에 모은 것은 [README](../README.md)에 있다.
 
-**용어** — **급여목록**: 건강보험이 적용되는 약과 상한가격의 공식 목록(매달 새 파일). **비고**: 목록의 메모 칸. 앞으로의 처분(예: "'25.7.1. 인하")이 미리 적힌다. **변화 기록표**: 월별 목록 파일을 비교해 언제 무엇이 바뀌었는지 날짜별로 정리한 표. **원외 처방**: 병원 밖 약국에서 조제되는 처방. **급여중지**: 건강보험 적용을 일정 기간 멈추는 처분. **집행정지**: 처분에 소송이 걸렸을 때 법원이 판결 전까지 처분의 효력을 멈추는 결정. **양도양수**: 제품의 허가를 다른 회사가 넘겨받아 같은 약이 새 코드로 다시 실리는 것.
+**용어** — **급여목록**: 건강보험이 적용되는 약과 상한가격의 공식 목록(매달 새 파일). **비고**: 목록의 메모 칸. 앞으로의 처분(예: "'25.7.1. 인하")이 미리 적힌다. **변화 기록표**: 월별 목록 파일을 비교해 언제 무엇이 바뀌었는지 날짜별로 정리한 표. **WAPE**: 예측이 빗나간 양의 합 ÷ 실제 처방량의 합(작을수록 좋다). **원외 처방**: 병원 밖 약국에서 조제되는 처방. **급여중지**: 건강보험 적용을 일정 기간 멈추는 처분. **집행정지**: 처분에 소송이 걸렸을 때 법원이 판결 전까지 처분의 효력을 멈추는 결정. **양도양수**: 제품의 허가를 다른 회사가 넘겨받아 같은 약이 새 코드로 다시 실리는 것.
 
 ## 먼저 읽을 한계
 
@@ -101,8 +101,8 @@
 | # | 한계 | 다음 실험 | 판단 기준 | 상태 |
 |---|---|---|---|---|
 | 1 | 성분 합계만 있어 제품별 처방 비중을 볼 수 없다 | 제품별 처방 비중 분석(제품 단위 자료 확보 후) | 인하 예고 제품의 성분 안 비중이 예고 전후로 달라지는가 | 향후 과제. 사용통계에는 제품 단위 처방량이 없다(원본 96개 파일이 주성분 4자리까지만 있음) |
-| 2 | 사용통계가 공개 뒤에 고쳐질 수 있다(처음 공개본과 나중 수정본이 다를 수 있음) | 사후 수정 측정·보정: 매달 받은 판본을 쌓아, 공개 후 몇 개월이 지나면 최종값의 몇 %가 집계되는지(완성 계수)로 최근 달을 보정 | 같은 달의 두 판본 차이가 공개 후 경과 개월에 따라 줄어드는가 | 이번: 같은 달을 다른 날 받은 판본이 하나뿐이라 간접 시험만 했다(작성자 가설: 공개된 지 얼마 안 된 달은 덜 집계되어 나중에 위로 고쳐진다). 최근 3개월의 작년 같은 달 대비 비율이 2023~24년보다 약효분류군 72개의 중앙값으로 -3.7%, 하락한 분류군 81.9%. 실행 전에 정한 기준(−5% 이하이고 70% 이상 하락)에 못 미쳐 정해 둔 판정은 '흔적 없음'이다. 다만 다수가 하락 방향이고 실제 수요 감소와 구분할 수 없어, 덜 집계가 없다는 뜻은 아니다. 같은 달의 두 판본을 비교하는 스크립트는 준비해 두었다 |
-| 3 | 몇 개월 앞까지 쓸 만한지 몰랐다 | 1~12개월 앞 오차 곡선 | 1개월 앞 대비 오차가 10% 넘게 커지는 첫 개월, 작년 같은 달 값보다 오차가 작은 마지막 개월 | 이번(가설 '1개월 앞 대비 오차가 10% 넘게 커지는 첫 개월이 4개월 이상'): 32개 성분, 자료가 바로 공개된다고 두고 2023-01 ~ 2024-12에 시작한 24번의 예측으로 쟀다. 기계학습 모델 오차 1개월 앞 12.1% → 2개월 앞 16.1% → 12개월 앞 59.0%, 작년 같은 달 값은 22.7% → 20.2%. 가설은 **기각**(2개월 앞에서 이미 10% 넘게 커짐). 작년 같은 달 값을 이기는 것은 3개월 앞까지. (결론의 '다음 달 13.6%'는 2023-01 ~ 2025-11의 35번 예측이라 평가 기간이 달라 값이 다르다) |
+| 2 | 사용통계는 공개 뒤에 늘어날 수 있다(판본마다 특정 심사 완료 시점까지의 청구만 담는 공식 작성 기준) | 사후 수정 측정·보정: 매달 받은 판본을 쌓아, 공개 후 몇 개월이 지나면 최종값의 몇 %가 집계되는지(완성 계수)로 최근 달을 보정 | 같은 달의 두 판본 차이가 공개 후 경과 개월에 따라 줄어드는가 | 공식 작성 기준에 따른 자료 성질이다: 사용통계는 건강보험 청구자료 기반이고 판본마다 특정 심사 완료 시점까지의 청구만 담는다(공공데이터포털 설명 '25.5월 심사완료분까지 반영, 25.6.27.'; 같은 기관 진료현황 자료 '청구권 소멸시효(3년) 이전 자료는 변동될 수 있음'). 그래서 최근 달은 덜 집계되고 이후 판본에서 늘 수 있다. 공개 시차는 약 4개월(2025-02 자료가 2025-06-27 공개)로 이 프로젝트의 가정 5개월과 비슷하다. 이번: 같은 달을 다른 날 받은 판본이 하나뿐이라 간접 시험만 했다. 최근 3개월의 작년 같은 달 대비 비율이 2023~24년보다 약효분류군 72개의 중앙값으로 -3.7%, 하락 방향인 분류군 82%. 이 방법으로는 수정 폭이 −5%를 넘는다는 증거를 찾지 못했다(실행 전에 정한 기준 −5%·70%). 실제 수요 감소와도 구분할 수 없다. 남은 측정 과제: 수정 폭과 안정 기간(같은 달의 두 판본 비교 스크립트 준비됨) |
+| 3 | 몇 개월 앞까지 쓸 만한지 몰랐다 | 1~12개월 앞 오차 곡선 (32개, 상위 200개) | 1개월 앞 대비 오차가 10% 넘게 커지는 첫 개월, 작년 같은 달 값보다 오차가 작은 마지막 개월 | 이번(가설 '1개월 앞 대비 오차가 10% 넘게 커지는 첫 개월이 4개월 이상'): 자료가 바로 공개된다고 두고 2023-01 ~ 2024-12에 시작한 24번의 예측으로 쟀다. 32개 성분: 기계학습 모델 오차 1개월 앞 12.1% → 2개월 앞 16.1% → 12개월 앞 59.0%, 가설 **기각**, 작년 같은 달 값을 이기는 것은 3개월 앞까지. 상위 200개 성분: 6.5% → 8.1% → 17.6%, 가설 **기각**(10% 넘게 커지는 첫 개월 2), 작년 같은 달 값을 이기는 것은 5개월 앞까지. (결론의 '다음 달' 값은 2023-01 ~ 2025-11의 35번 예측이라 평가 기간이 달라 값이 다르다) |
 | 4 | 대상이 호흡기·알레르기 계열 32개 성분뿐이다 | 상위 200개 + 층화 200개 성분 | 5개월 시차에서 결론(작년 값보다 나쁜가, 목록 정보가 개선하는가)이 유지되는가 | 이번: 처방량 상위 200개(2022년 원외 청구금액의 76.4%)와, 약효분류·청구금액 규모·업체 수로 나눈 층에서 고르게 뽑은 200개(같은 비중 35.7%, 상위 200개와 94개 겹침). 5개월 시차 오차: 상위 200개 기계학습 11.0% 대 작년 같은 달 12.0%, 층화 200개 10.4% 대 12.1%. 목록 정보 추가: 상위 200개 개선 없음, 층화 200개 개선 없음. **200개로도 남는 한계**: 96개월 연속 관측 조건의 생존 편향, 업체 2곳 이하 성분은 사용통계에서 비공개(제품 하나의 변화가 성분 합계를 움직일 곳이 빠짐), 성분 합계라 성분 안의 처방 이동이 안 보임, 예측 개선 여부로 효과를 재는 시험의 낮은 검출력 |
 | 5 | 전국 합계만 예측했다 | 시도별 예측 | 시도별 합이 전국 예측보다 나은가 | 향후 과제 |
 | 6 | 약국 단위 자료가 없다 | 약국 주문·판매 자료에 같은 방법 적용 | 바로 쌓이는 자료로 작년 같은 달 값을 몇 개월 앞까지 이기는가 | 향후 과제 |

diff --git a/README.md b/README.md
@@ -8,12 +8,17 @@
 ## 핵심 결론
 
 1. **약가 인하 예고는 대부분 예고대로 실행되고, 급여중지 예고는 47%가 법원 집행정지로 막혔다(대부분 두 회사).** 약가 인하 예고는 결과가 난 것 중 99.7%가 예고대로 실행됐다(급여목록 비고에 적힌 예고 기준. 대체조제 목록으로만 보인 막힌 처분까지 넣으면 99.6%). 급여중지 예고는 47.3%(96/203건)가 막혔고, 그중 95건이 두 회사의 처분이다(급여목록 표시만으로 세면 36.0%). 약가 변화의 66.7%(약 3분의 2)는 목록에 미리 예고되지 않았다(일괄 인하가 있었던 3개 달을 빼면 26.8%). 자동 판정을 사람이 정답을 단 처음 보는 검증 표본 30건과 맞춰 보면, 변화의 종류(약가 인하·등재·업체 변경 등)가 90.0% 일치했다(판정 결과를 본 뒤 2건을 고친 정답 기준. 처음 정답 기준 83.3%), 날짜는 100% 일치했다.
-2. **예측 정확도를 좌우하는 것은 자료의 신선도다.** 오차는 WAPE(예측이 빗나간 양의 합 ÷ 실제 처방량의 합)로 잰다. 호흡기·알레르기 계열 32개 성분에서 지난달 자료를 바로 쓸 수 있다면 기계학습 예측 모델의 오차가 작년 같은 달 값보다 약 40% 작지만(13.6% 대 23.9%), 실제 공개 시차(5개월)에서는 오히려 더 나쁘다(29.1% 대 23.9%). 다만 처방량 상위 200개 성분(11.0% 대 12.0%)와 분류·규모·업체 수로 고르게 뽑은 200개 성분(10.4% 대 12.1%)에서는 5개월 시차에서도 작년 같은 달 값보다 오차가 작았다. 그래서 '5개월 시차에서는 더 나쁘다'는 32개 성분에 한한 결과다. 어느 대상에서든 자료가 늦을수록 오차가 커졌다(200개 성분: 시차 0 7.2% → 시차 5 11.0%). 자료가 바로 공개된다고 둬도 1개월 앞에서 2개월 앞으로 가면 오차가 33% 커지고, 작년 같은 달 값을 이기는 것은 3개월 앞까지다.
-3. **급여목록의 가격·등재 정보는 성분 전체 처방량 예측을 개선하지 못했다.** 실제로 일어난 변화를 미리 알려 준 시험에서도 개선이 없었다. 이것은 목록 정보가 쓸모없다는 뜻이 아니다. 그 정보가 움직이는 곳은 성분 안의 제품별 처방 비중과 약국 재고의 가격 위험일 가능성이 크다고 본다(검증하지 않은 추정). 이 프로젝트는 그쪽을 측정하지 않았다.
+2. **예측 정확도는 자료의 신선도가 크게 좌우한다.** 처방량 상위 200개 성분(공개 원외처방 청구금액의 76%)의 다음 달 처방량은, 실제 공개 시차(5개월)에서도 기계학습 모델의 오차가 작년 같은 달 값보다 작았다(WAPE 11.0% vs 12.0%, 금액 가중 6.7% vs 8.5%). 지난달 자료를 바로 쓸 수 있다면 오차는 7.2%로 더 줄었다. 계절 변동이 큰 호흡기 계열 32개 성분에서는 5개월 시차에서 작년 같은 달 값이 더 나았다. (분류·규모·업체 수로 고르게 뽑은 층화 200개 성분: 유의 — WAPE 10.4% vs 12.1%)
+3. **급여목록의 가격·등재 정보는 세 대상(32개, 상위 200개, 층화 200개) 모두에서 성분 전체 처방량 예측을 개선하지 못했다.** 실제로 일어난 변화를 미리 알려 준 시험에서도 개선이 없었다. 이것은 목록 정보가 쓸모없다는 뜻이 아니다. 그 정보가 움직이는 곳은 성분 안의 제품별 처방 비중과 약국 재고의 가격 위험일 가능성이 크다고 본다(검증하지 않은 추정). 이 프로젝트는 그쪽을 측정하지 않았다.
 
-**의미**: 수요 예측의 경쟁력은 바로 쌓이는 자료(약국 주문·판매)에서 나온다 — 이 프로젝트에서 **검증하지 않은 가정**이다. 급여목록 정보는 약국 알림에 맞다고 본다(시험하지 않은 제안): 약가 인하 예고는 신뢰도가 높고, 급여중지 예고는 법원에서 막힐 수 있다는 점을 함께 표시해야 한다.
+**의미**:
+- 넓은 성분 범위의 월 수요는 공개 통계로도 예측할 수 있다(상위 200개, 금액 가중 오차 약 7%).
+- 자료가 신선할수록 오차가 줄어든다(11.0% → 7.2%).
+- 계절 변동이 큰 약(호흡기 계열)은 예외다. 늦은 자료로는 유행 시작을 볼 수 없다.
+- 약국 주문·판매처럼 바로 쌓이는 자료의 가치는 이 프로젝트에서 **검증하지 않은 가정**이다.
+- 목록 정보는 수요 예측보다 약국 알림에 맞다(시험하지 않은 제안): 약가 인하 예고는 신뢰도가 높고, 급여중지 예고는 법원에서 막힐 수 있다는 점을 함께 표시해야 한다.
 
-**용어** — **급여목록**: 건강보험이 적용되는 약과 상한가격의 공식 목록(매달 새 파일). **비고**: 목록의 메모 칸. 앞으로의 처분(예: "'25.7.1. 인하")이 미리 적힌다. **변화 기록표**: 월별 목록 파일을 비교해 언제 무엇이 바뀌었는지 날짜별로 정리한 표. **원외 처방**: 병원 밖 약국에서 조제되는 처방. **급여중지**: 건강보험 적용을 일정 기간 멈추는 처분. **집행정지**: 처분에 소송이 걸렸을 때 법원이 판결 전까지 처분의 효력을 멈추는 결정. **양도양수**: 제품의 허가를 다른 회사가 넘겨받아 같은 약이 새 코드로 다시 실리는 것.
+**용어** — **급여목록**: 건강보험이 적용되는 약과 상한가격의 공식 목록(매달 새 파일). **비고**: 목록의 메모 칸. 앞으로의 처분(예: "'25.7.1. 인하")이 미리 적힌다. **변화 기록표**: 월별 목록 파일을 비교해 언제 무엇이 바뀌었는지 날짜별로 정리한 표. **WAPE**: 예측이 빗나간 양의 합 ÷ 실제 처방량의 합(작을수록 좋다). **원외 처방**: 병원 밖 약국에서 조제되는 처방. **급여중지**: 건강보험 적용을 일정 기간 멈추는 처분. **집행정지**: 처분에 소송이 걸렸을 때 법원이 판결 전까지 처분의 효력을 멈추는 결정. **양도양수**: 제품의 허가를 다른 회사가 넘겨받아 같은 약이 새 코드로 다시 실리는 것.
 
 <!-- 핵심 결론 끝 -->
 <!-- P1 요약 시작 (scripts/p1_docs.py 생성) -->
@@ -21,7 +26,7 @@
 <!-- P1 요약 끝 -->
 
 <!-- P2 요약 시작 (scripts/p2_docs.py 생성) -->
-**P2 처방 수요 예측**: 성분 32개 × 전국 처방량의 다음 달 예측(약국 단위 아님). 자료가 바로 나온다고 가정하면 기계학습 모델의 오차가 작년 같은 달 값보다 작지만(13.6% 대 23.9%), 실제 공개 시차 5개월에서는 더 나빴다(29.1%). 급여목록 처분 예고를 더해도, 실제로 일어난 변화를 미리 알려 줘도 개선되지 않았다. 2쪽 요약: [reports/P2_SUMMARY.md](reports/P2_SUMMARY.md). 실행: `make p2-min`.
+**P2 처방 수요 예측**: 성분별 전국 처방량의 다음 달 예측(약국 단위 아님). 처방량 상위 200개 성분에서는 실제 공개 시차 5개월에서도 기계학습 모델의 오차가 작년 같은 달 값보다 작았고(11.0% 대 12.0%), 호흡기 계열 32개 성분에서는 작년 같은 달 값이 더 나았다(23.9% 대 29.1%). 급여목록 처분 예고를 더해도, 실제로 일어난 변화를 미리 알려 줘도 개선되지 않았다. 2쪽 요약: [reports/P2_SUMMARY.md](reports/P2_SUMMARY.md). 실행: `make p2-min`.
 <!-- P2 요약 끝 -->
 
 

diff --git a/docs/DECISIONS.md b/docs/DECISIONS.md
@@ -360,3 +360,7 @@
 | 2026-11-19 (**사용자 결정**, 추가 확인 D, 실행 전 기록) | 층화 200: 대상 = 96개월 원외 모두 관측 성분(435개, **생존 편향은 그대로**). 층 = 약효분류번호 앞 2자리 × 2022 원외 청구금액 3분위(대상 435개 안에서) × 업체 수 구간(3~5, 6~10, 11개 이상). 업체 수 = 2022-12 급여목록 제품 행의 서로 다른 업체 수(대상 435개는 모두 3개 이상). 배분: 총 200개를 층별 성분 수에 비례(최대 나머지 방식), 층마다 최소 1개(최소 1개 때문에 넘치면 배분이 가장 큰 층부터 하나씩 줄임), 층 안은 시드(`seed`) 고정 무작위 추출. 새 표 `fc_target_strat200`. 실행·비교는 추가 확인 C와 같음 | 사용자 지시 | 업체 수 시점 2022 평균 |
 | 2026-11-19 (추가 확인 D) | "결론이 유지되는가" = 추가 확인 C와 같은 정의(시차 5에서 M3가 M2를 개선하지 못함 / M2가 M0보다 나쁨, 둘을 따로 판정), 가중·비가중 둘 다 | | |
 | 2026-11-19 (확인) | 사용통계에 제품(품목) 단위 처방량은 **없다**: 원본 96개 파일 헤더가 모두 같은 11개 칸이고 가장 세분된 코드는 `WK_COMPN_4`(주성분 4자리) | 이번 실행에서 헤더 확인 | |
+| 2026-11-19 (**사용자 결정**, 실행 전 기록) | 유의성 검정(상위 200·층화 200, 시차 5·0, 다음 달, M2 대 M0·M3 대 M2, 기존 예측값): ① 비가중 — 성분별 WAPE 차이(a − b)에 부호 검정·Wilcoxon 부호 순위 검정(기존 방식). ② DM — origin별 전체 WAPE 차이 시계열(35개)의 평균이 0인지, Newey–West 분산(시차 5는 겹치는 예측이라 지연 5, 시차 0은 0). ③ 금액 가중 — origin별 금액 가중 WAPE 차이의 DM. Holm 보정은 검정 종류마다 이 표의 비교 8개(2 대상 × 2 시차 × 2 비교)를 한 묶음으로. **외부 결론 (2)의 판단 기준 "비가중 검정 유의" = 기존 규칙대로 부호·Wilcoxon 둘 다 Holm 뒤 p < 0.05이고 방향이 M2 쪽.** 사용자 지시문의 "부호 검정·DM"과 달리 기존 검정은 부호·Wilcoxon이었다. 그래서 DM은 함께 보고만 한다 | 사용자 지시, 기존 compare() | DM만으로 판정 |
+| 2026-11-19 (**사용자 결정**) | 외부 결론 (2) 교체(사용자 문장, 판단 기준에 따라 '작았다' / '유의한 차이가 없었다'), 지난번 caveat 문장 삭제, 결론 (3)에 "세 대상(32개, 상위 200개, 층화 200개) 모두에서". 내부 결론은 그대로 두고 (보충) 한 줄 | | |
+| 2026-11-19 (**사용자 결정**) | 추가 확인 B를 상위 200개로 반복(사전 기준 그대로, 판정은 비가중). 유일한 새 실행 | | |
+| 2026-11-19 (**사용자 결정**, 위 '사용자 가설' 줄을 대체) | 사용통계 사후 수정은 "사용자 가설"이 아니라 **공식 작성 기준에 따른 자료 성질**로 쓴다. 근거: 공공데이터포털 국민건강보험공단_의약품 사용통계 설명 "건강보험 청구자료 기반, 2018년 1월 ~ 2025년 2월 … (25.5월 심사완료분까지 반영, 25.6.27.)"(https://www.data.go.kr/biz/dcat/metadata/15128709.do), 같은 기관 진료현황 "진료일 기준, 지급분까지 반영, 청구권 소멸시효 완성(3년) 이전 자료는 변동될 수 있음"(https://www.data.go.kr/data/15160449/fileData.do). 해석: 판본마다 특정 심사 완료 시점까지의 청구만 담아 최근 달은 덜 집계되고 이후 판본에서 늘 수 있다. 공개 시차는 약 4개월(2025-02 자료가 2025-06-27 공개)로 가정 5개월과 비슷하다. 간접 시험 기준(−5%, 70%)은 유지하고, 결과는 "이 방법으로는 수정 폭이 −5%를 넘는다는 증거를 찾지 못함(중앙값 −3.7%, 분류군 82%가 하락 방향)"으로 쓴다. 남은 측정 과제: 수정 폭과 안정 기간 | 사용자가 제공한 공식 설명(이 세션에서 웹을 조회하지 않았다) | |

diff --git a/docs/LIMITATIONS.md b/docs/LIMITATIONS.md
@@ -31,7 +31,7 @@
 | W1 | 대상 선정의 생존 편향: 96개월 내내 관측된 성분만 | 주력 묶음 106개 중 32개, 2022 원외 청구금액의 5.9% | 한계로 적고 고치지 않는다 (사용자 결정 2026-11-18) | 4 |
 | W2 | 주 결과(lag 5)에서 전역 모델이 12개월 전 값에 진다 | MASE M2 1.202 대 M0 0.923 | 숨기지 않고 결론 첫 줄에 쓴다 | 2, 3, 6 |
 | W3 | 신호 특징의 결측이 시기 표시로 작동 (상수 열 실험 E1′로 확인) | lag 5 M3 − M2 +12.3% 중 +6.1%가 시기 표시 | 결측을 채우지 않는다(CLAUDE.md). 신호 내용의 몫은 M3 − E1로 따로 보고 | 7 |
-| W4 | 수정본 사용통계로 학습·평가 | 측정 불가 (판이 하나) | L17, BACKLOG X11 | 2 |
+| W4 | 수정본 사용통계로 학습·평가. 판본마다 특정 심사 완료 시점까지의 청구만 담는 공식 작성 기준이라 최근 달은 덜 집계될 수 있다 | 수정 폭은 측정 불가(판이 하나). 간접 시험으로는 −5%를 넘는 증거 없음 | L17, 두 판본 비교 스크립트 준비 | 2 |
 | W5 | 가상 재고는 전국·이월 없음·비용 비율 1·3·9·안전계수 0.1(가정값) | 약국 재고가 아니다. 분위 포함률이 τ에 맞지 않아 정책 비교가 섞인다 | 가정 유지 (사용자 결정). 포함률 보정은 향후 과제 | 6 |
 | W6 | 성분 간 독립을 가정한 검정 | 같은 origin을 공유해 p값이 낙관적일 수 있다 | 다루지 않음 (origin 블록 부트스트랩 미실행). Holm은 다중 비교만 다룬다 | — |
 | W7 | 주력 묶음을 평가 기간(2022~2025) 계절성으로, 규모 조건을 2022 전체로 골랐다 | 계절 모델(M0)에 유리하게 쏠릴 수 있다. lag 5 첫 origin은 2022-08까지만 본다 | 한계로 적고 고치지 않는다 | 4 |
@@ -256,6 +256,8 @@
 # 사용통계 시차
 
 ## L17. 사용통계 공개 시차와 판(초본 / 수정본) (2026-11-16 사용자 확인)
+
+> 표시 (2026-11-19): 사후 수정은 공식 작성 기준에 따른 자료 성질이다. 사용통계는 건강보험 청구자료 기반이고 판본마다 특정 심사 완료 시점까지의 청구만 담는다(공공데이터포털 설명 "25.5월 심사완료분까지 반영, 25.6.27.", 진료현황 자료 "청구권 소멸시효(3년) 이전 자료는 변동될 수 있음"). 공개 시차는 약 4개월. 간접 시험으로는 수정 폭이 −5%를 넘는 증거를 찾지 못했다(P2 결과 추가 확인 A). 남은 측정 과제: 수정 폭과 안정 기간 → '한계와 다음 실험' 2번.
 
 - 사용통계는 발생 후 5개월 뒤 초본이 공개되고 매달 과거 자료 수정본이 함께 나온다. 리포트·P2는 발간월 M에 M−5까지 쓴다 (`usage_lag_months = 5`). 그래서 리포트는 현재 시장 규모를 말하지 않는다 (최근 5개월 공백 → P2).
 - `data/raw` 사용통계는 2026-11-01에 받은 수정본이다. 실제 월간 보고서는 초본을 쓴다. 초본과 수정본의 차이는 판이 하나라 측정하지 못했다 (BACKLOG X11). P2 결과는 낙관적일 수 있다.
